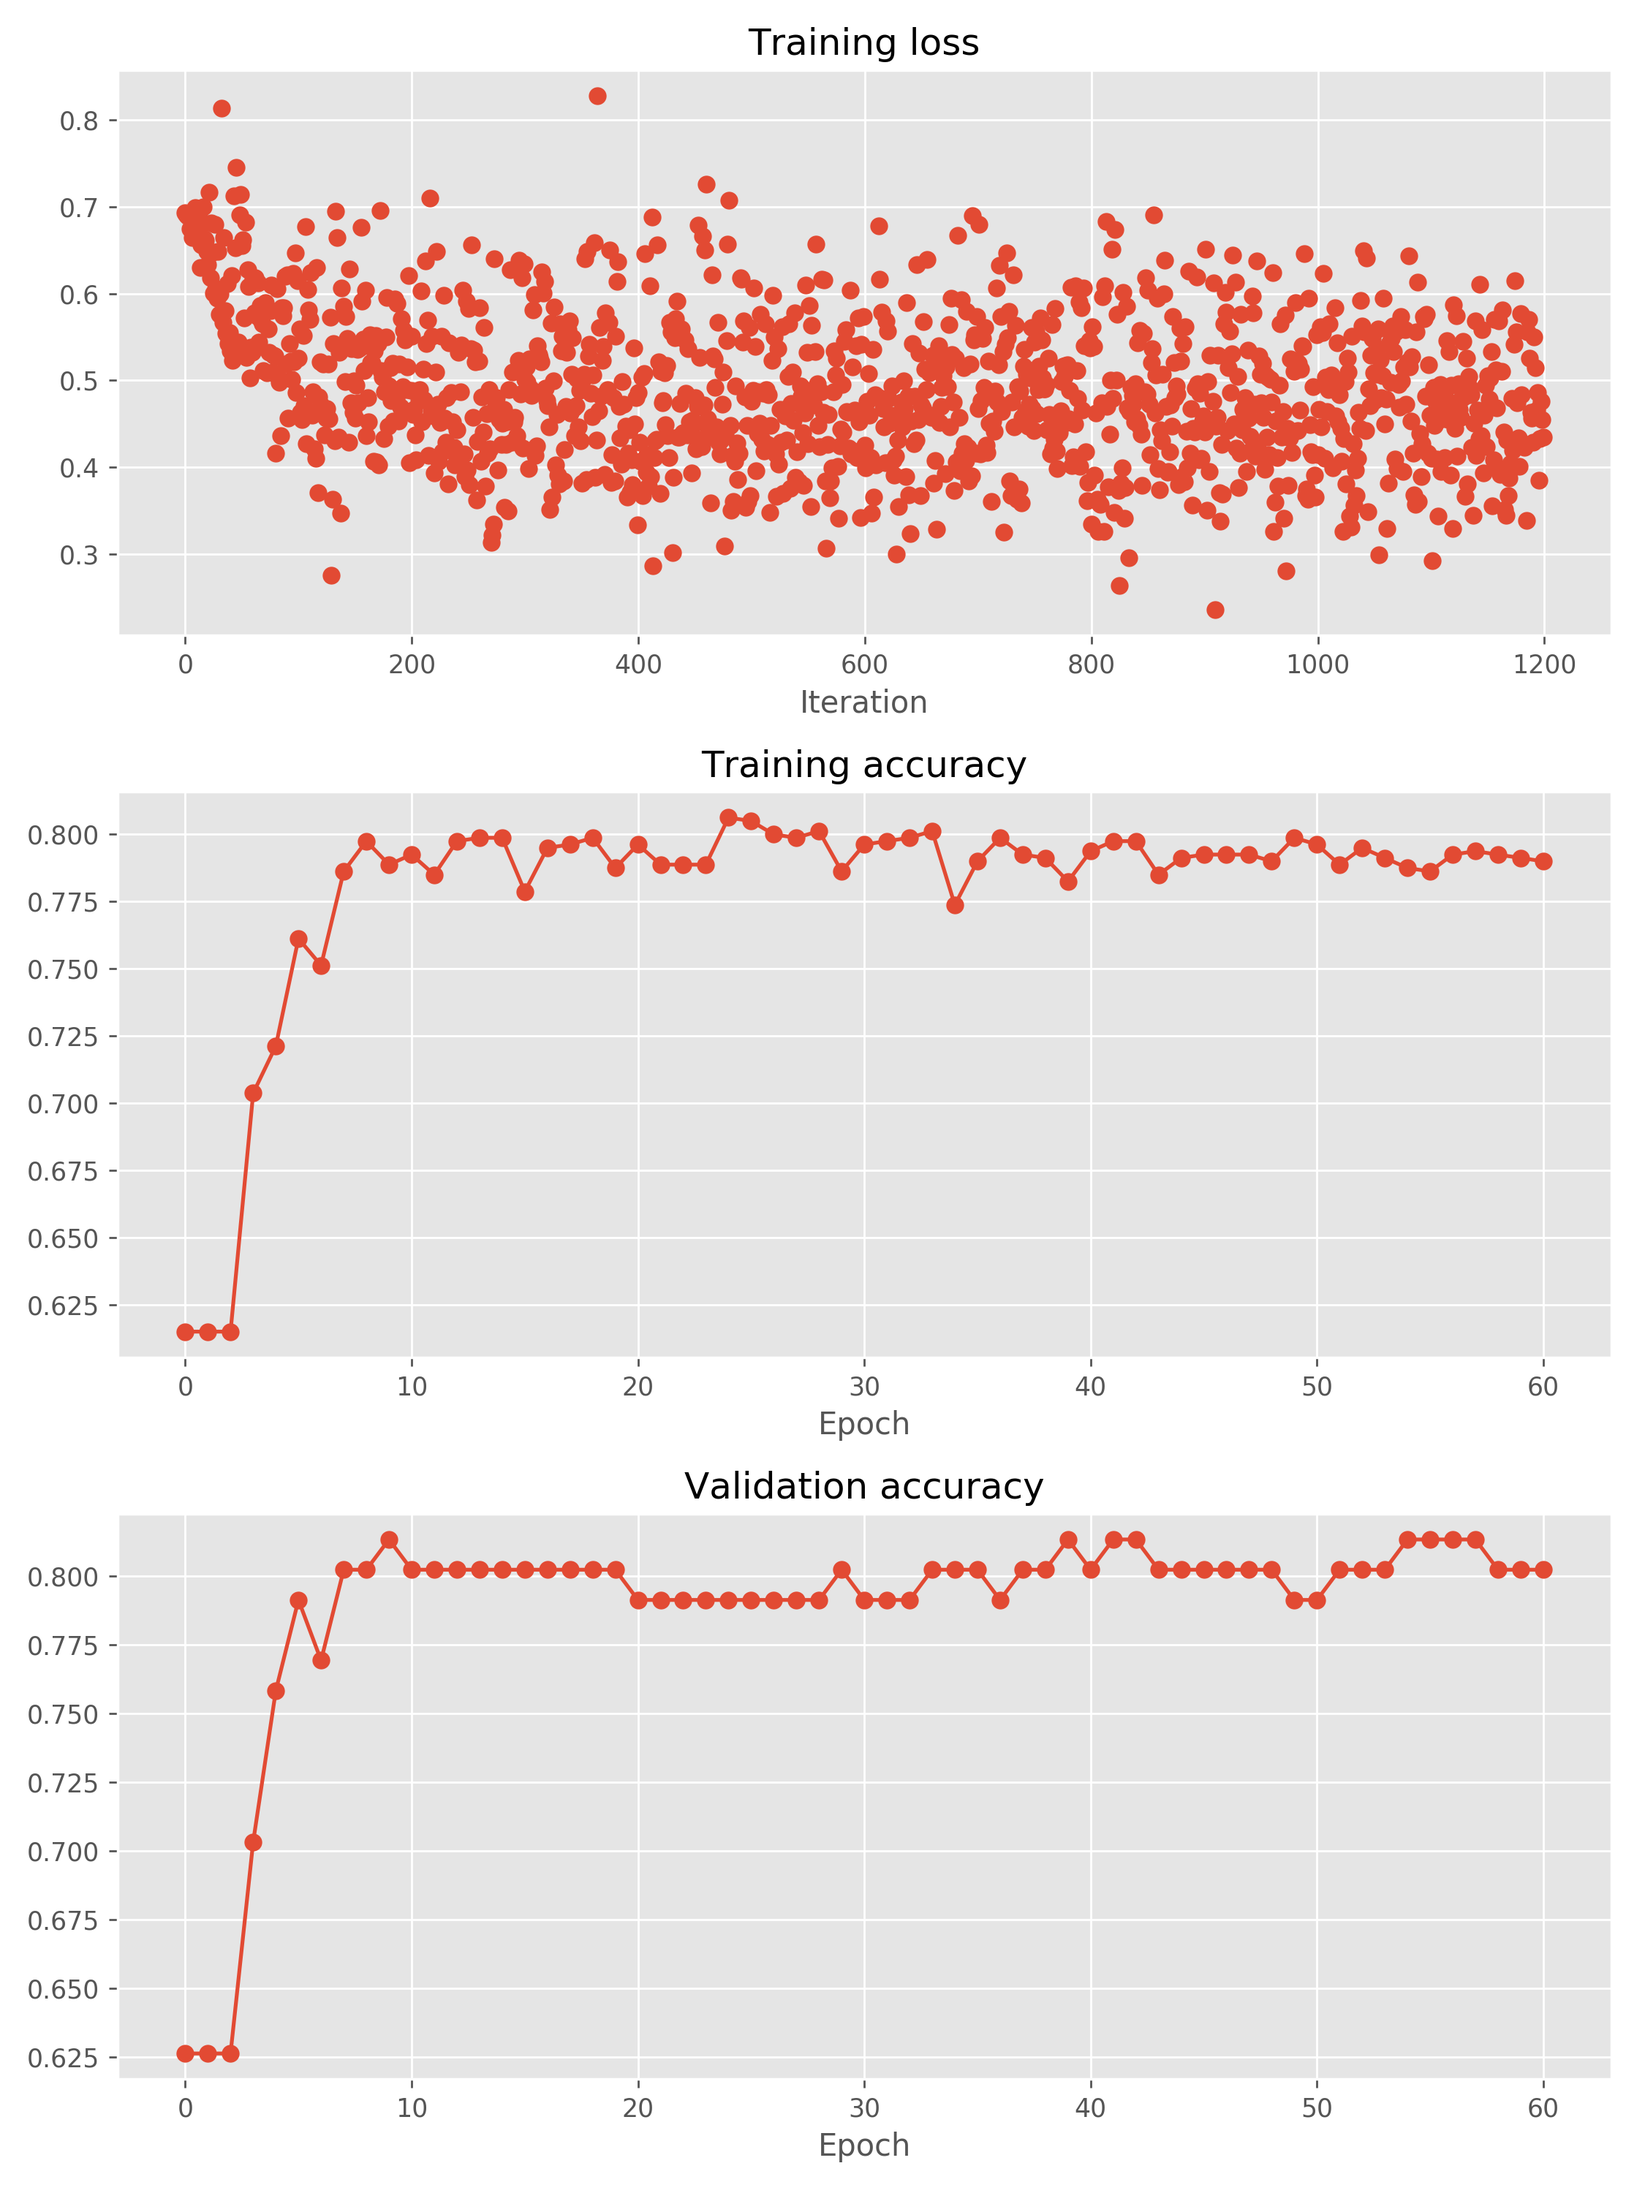
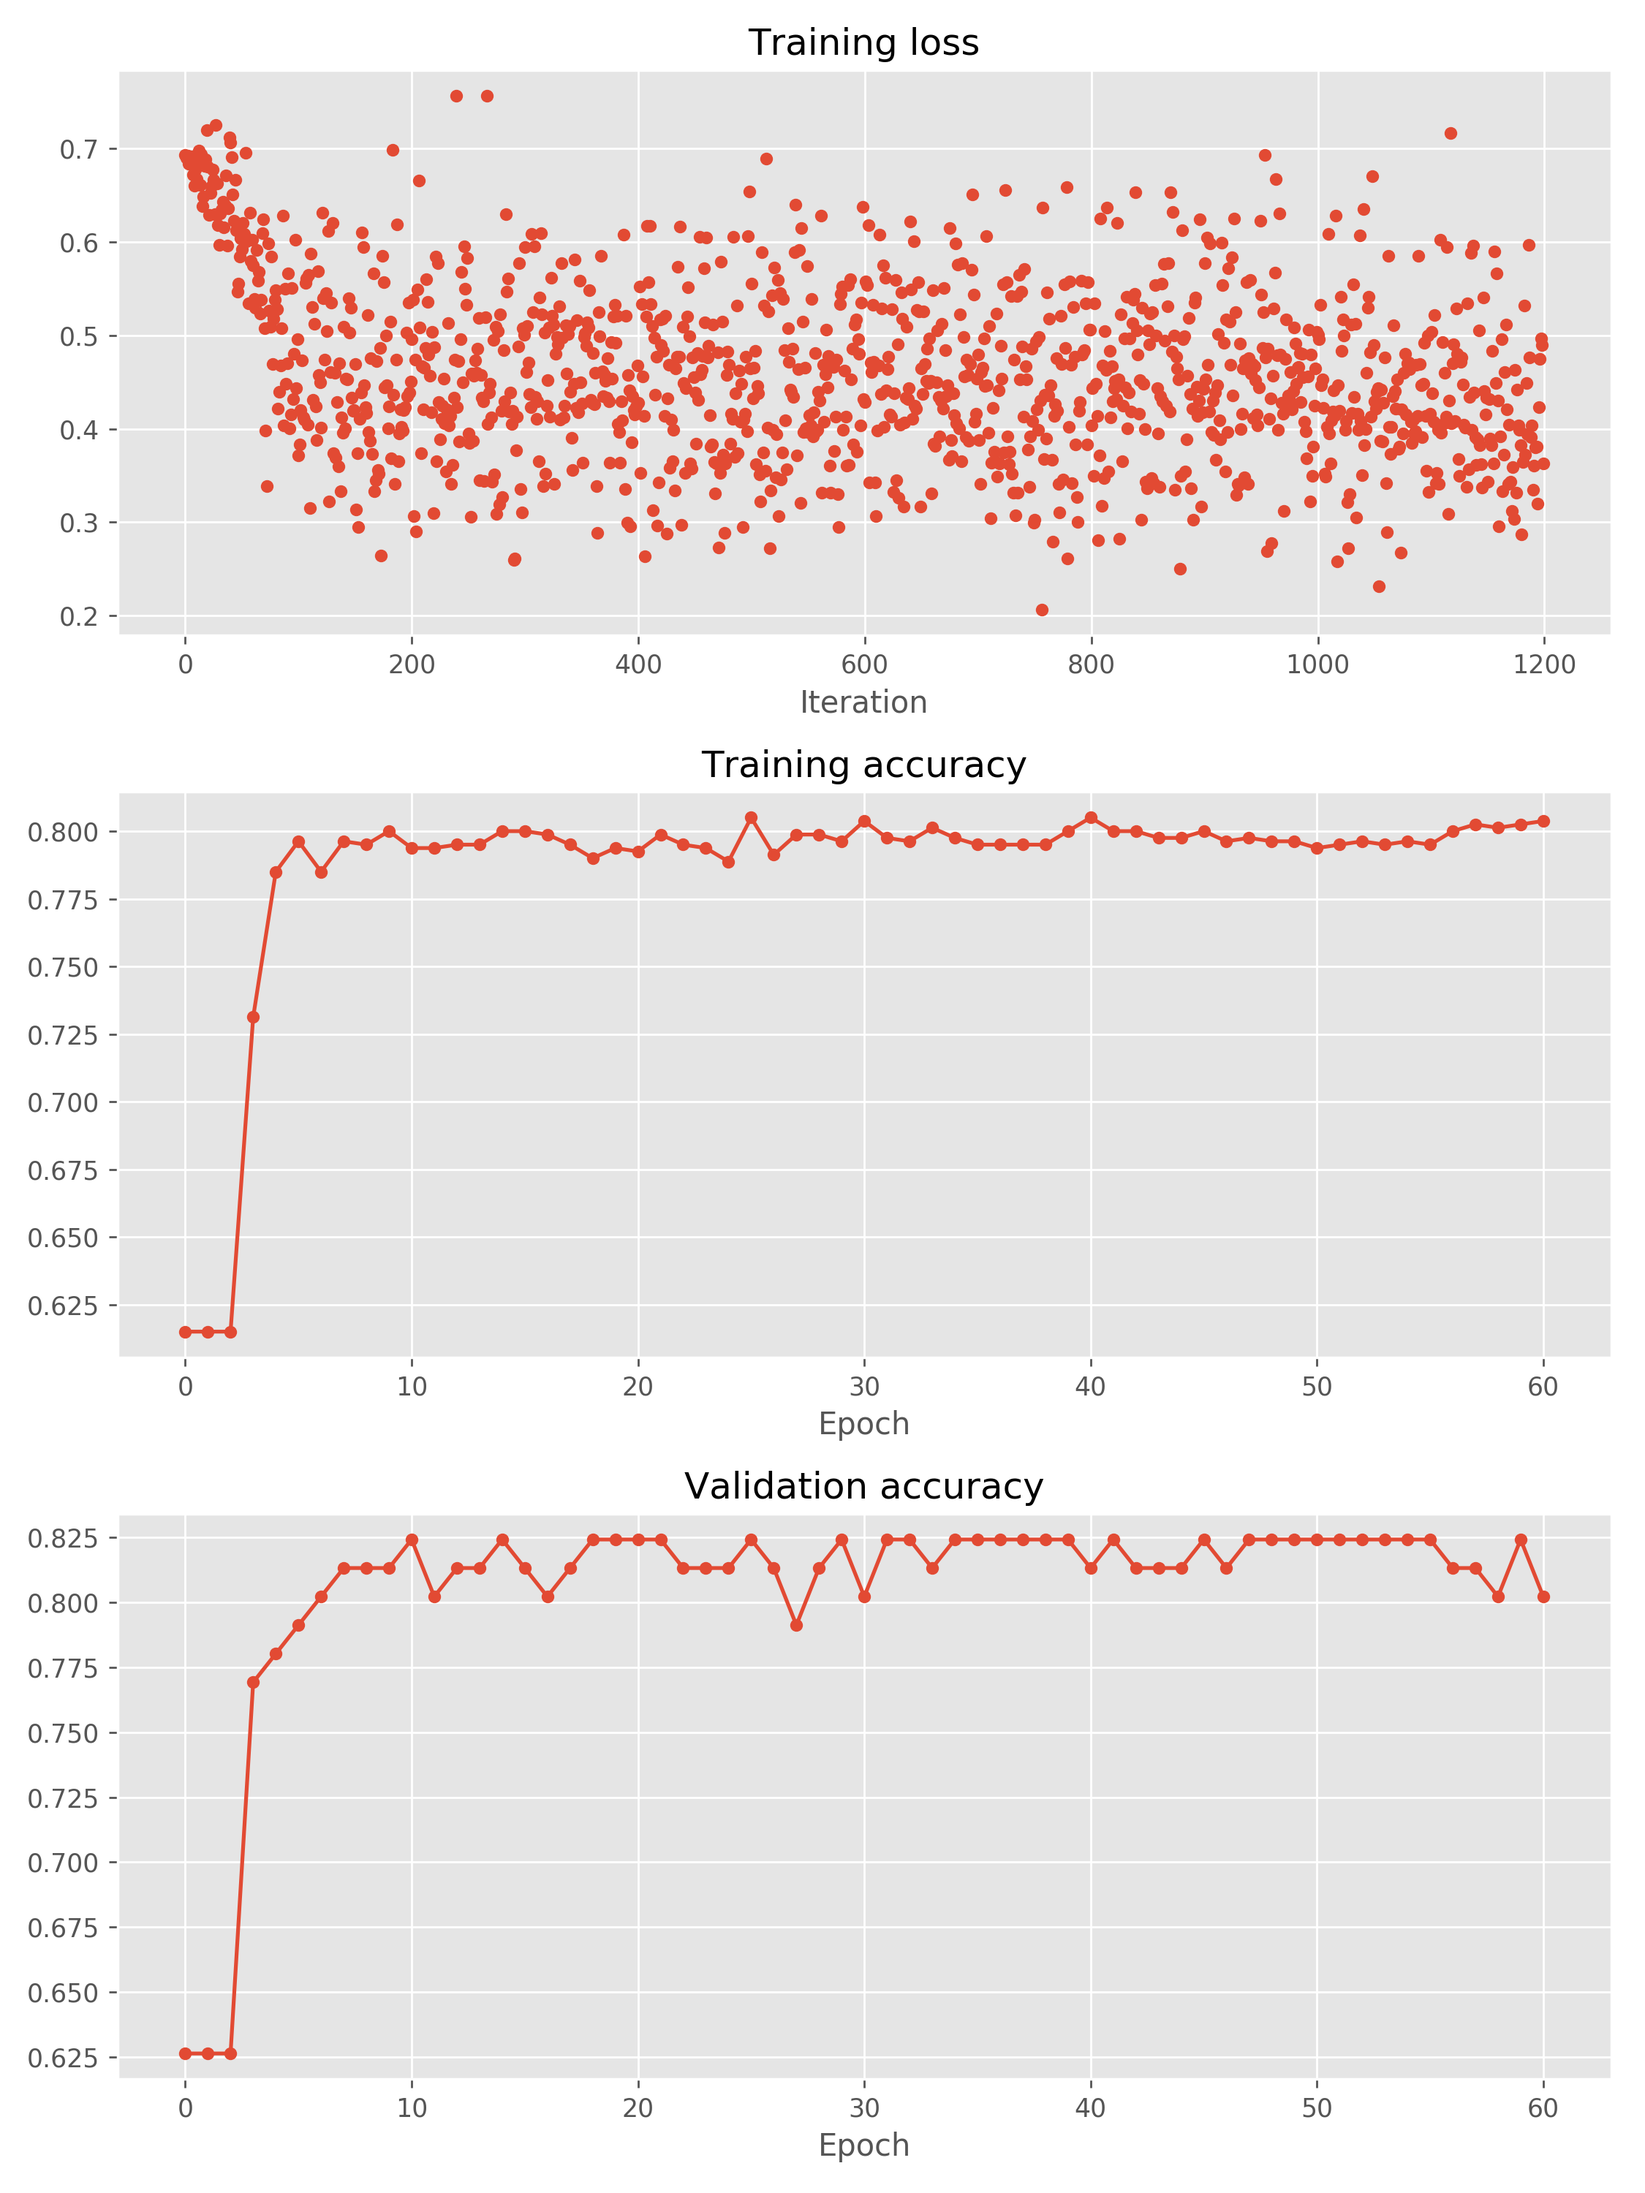
update figure

diff --git a/main.py b/main.py
@@ -23,13 +23,13 @@ def plot(solver, filename):
     plt.xlabel('Epoch')
 
     plt.subplot(3, 1, 1)
-    plt.plot(solver.loss_history, 'o')
+    plt.plot(solver.loss_history, 'o', markersize=4)
 
     plt.subplot(3, 1, 2)
-    plt.plot(solver.train_acc_history, '-o')
+    plt.plot(solver.train_acc_history, '-o', markersize=4)
 
     plt.subplot(3, 1, 3)
-    plt.plot(solver.val_acc_history, '-o')
+    plt.plot(solver.val_acc_history, '-o', markersize=4)
 
     for i in [1, 2, 3]:
         plt.subplot(3, 1, i)
@@ -128,6 +128,48 @@ def problem4():
 
 
 def problem5():
+    data_df = pd.read_csv('titanic.csv')
+    data = data_df.as_matrix()
+
+    x_train, y_train = data[:800, 1:], data[:800, 0]
+    x_test, y_test = data[800:, 1:], data[800:, 0]
+
+    fare_mean, fare_std = np.mean(x_train[:, -1]), np.std(x_train[:, -1])
+    age_mean, age_std = np.mean(x_train[:, 2]), np.std(x_train[:, 2])
+    x_train[:, -1] = (x_train[:, -1] - fare_mean) / fare_std
+    x_test[:, -1] = (x_test[:, -1] - fare_mean) / fare_std
+    x_train[:, 2] = (x_train[:, 2] - age_mean) / age_std
+    x_test[:, 2] = (x_test[:, 2] - age_mean) / age_std
+
+    data = {
+        'X_train': x_train,
+        'y_train': y_train.astype(int),
+        'X_val': x_test,
+        'y_val': y_test.astype(int),
+    }
+
+    model_3 = FullyConnectedNet([3, 3],
+                                input_dim=6,
+                                num_classes=2,
+                                weight_scale=5e-2,
+                                reg=1e-4)
+    solver_3 = Solver(
+        model_3,
+        data,
+        update_rule=OPTIMIZER,
+        optim_config={
+            'learning_rate': 0.01,
+        },
+        lr_decay=0.95,
+        num_epochs=60,
+        batch_size=40,
+        print_every=100)
+    solver_3.train()
+    plot(solver_3, 'prob3.png')
+    return
+
+
+def problem6():
     return
 
 

diff --git a/README.md b/README.md
@@ -8,11 +8,18 @@
 
 ### Problem 1
 ![](/result/prob1.png)
+
 ### Problem 2
 ![](/result/prob2.png)
+
 ### Problem 3
 ![](/result/prob3.png)
+
 ### Problem 4
 ![](/result/prob4.png)
+
 ### Problem 5
 ![](/result/prob5.png)
+
+### Problem 6
+![](/result/prob6.png)
